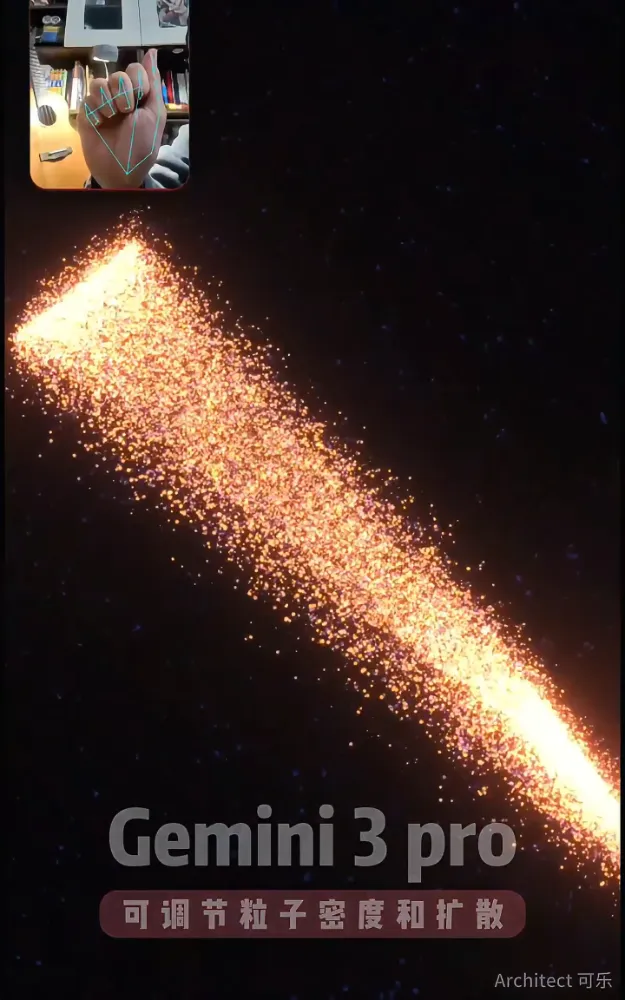
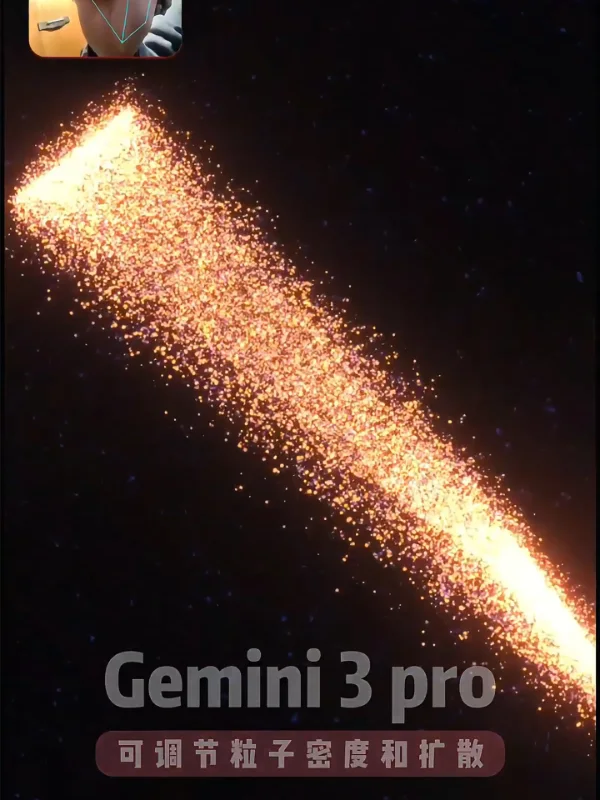
0321

diff --git a/index.html b/index.html
@@ -3,18 +3,17 @@
 <head>
     <meta charset="UTF-8">
     <meta name="viewport" content="width=device-width, initial-scale=1.0">
-    <title>Kele.Arch | AIGC + 设计</title>
+    <title>Arch-kele | AIGC + 设计</title>
+    
+    <!-- 字体预加载 -->
+    <link rel="preconnect" href="https://fonts.googleapis.com">
+    <link rel="preconnect" href="https://fonts.gstatic.com" crossorigin>
+    <link href="https://fonts.googleapis.com/css2?family=Inter:wght@400;500;700;900&display=swap" rel="stylesheet">
+    
     <!-- Tailwind CSS CDN -->
     <script src="https://cdn.tailwindcss.com"></script>
-    <!-- Lucide 图标库 -->
-    <script src="https://unpkg.com/lucide@latest"></script>
-    <!-- React, ReactDOM, Babel, Framer Motion CDN -->
-    <script src="https://unpkg.com/react@18/umd/react.production.min.js" crossorigin></script>
-    <script src="https://unpkg.com/react-dom@18/umd/react-dom.production.min.js" crossorigin></script>
-    <script src="https://unpkg.com/@babel/standalone/babel.min.js"></script>
-    <script src="https://unpkg.com/framer-motion@10.16.4/dist/framer-motion.js"></script>
+    
     <style>
-        @import url('https://fonts.googleapis.com/css2?family=Inter:wght@400;500;700;900&display=swap');
         body {
             font-family: 'Inter', sans-serif;
             overflow-x: hidden;
@@ -44,12 +43,20 @@
 <body class="bg-white text-[#1D1D1F] antialiased selection:bg-indigo-100">
     <div id="root"></div>
 
+    <!-- Lucide 图标库 -->
+    <script src="https://unpkg.com/lucide@latest"></script>
+    <!-- React, ReactDOM, Babel, Framer Motion CDN -->
+    <script src="https://unpkg.com/react@18/umd/react.production.min.js" crossorigin></script>
+    <script src="https://unpkg.com/react-dom@18/umd/react-dom.production.min.js" crossorigin></script>
+    <script src="https://unpkg.com/@babel/standalone/babel.min.js"></script>
+    <script src="https://unpkg.com/framer-motion@10.16.4/dist/framer-motion.js"></script>
+
     <script type="text/babel">
         const { useState, useEffect, useRef } = React;
         const { motion, AnimatePresence } = window.Motion;
 
-        // ================= 3D 卡片轮播组件 =================
-        const GallerySlider = ({ items, onImageClick, onVideoClick, showControls = false, ratio = '3/4' }) => {
+        // ================= 3D 卡片轮播组件 (已恢复最稳定纯净版本) =================
+        const GallerySlider = ({ items, onImageClick, onVideoClick, showControls = false }) => {
             const [currentIndex, setCurrentIndex] = useState(0);
             
             // 视频播放状态和静音控制
@@ -92,22 +99,12 @@
                 return 'hidden'; 
             };
 
-            const xOffset = ratio === '5/8' ? "70%" : "90%";
-            const hoverXOffset = ratio === '5/8' ? "80%" : "98%";
-
             const variants = {
                 center: { x: "0%", scale: 1, zIndex: 10, opacity: 1, filter: "brightness(100%)", boxShadow: "0 30px 60px -12px rgba(0,0,0,0.3)" },
-                left: { x: `-${xOffset}`, scale: 0.88, zIndex: 5, opacity: 0.5, filter: "brightness(60%)", boxShadow: "0 20px 40px -10px rgba(0,0,0,0.2)" },
-                right: { x: xOffset, scale: 0.88, zIndex: 5, opacity: 0.5, filter: "brightness(60%)", boxShadow: "0 20px 40px -10px rgba(0,0,0,0.2)" },
+                left: { x: "-90%", scale: 0.88, zIndex: 5, opacity: 0.5, filter: "brightness(60%)", boxShadow: "0 20px 40px -10px rgba(0,0,0,0.2)" },
+                right: { x: "90%", scale: 0.88, zIndex: 5, opacity: 0.5, filter: "brightness(60%)", boxShadow: "0 20px 40px -10px rgba(0,0,0,0.2)" },
                 hidden: { x: "0%", scale: 0.5, zIndex: 0, opacity: 0, transition: { duration: 0.2 }, boxShadow: "0 0px 0px rgba(0,0,0,0)" }
             };
-
-            let sizeClass = 'w-[84%] sm:w-[70%] md:w-[50%] lg:w-[38%] aspect-[3/4]';
-            if (ratio === '5/8') {
-                sizeClass = 'w-[70%] sm:w-[58%] md:w-[41%] lg:w-[31%] aspect-[5/8]';
-            } else if (ratio === '16/9') {
-                sizeClass = 'w-[95%] sm:w-[85%] md:w-[70%] lg:w-[60%] aspect-video';
-            }
 
             return (
                 <div className="relative w-full h-[65vh] md:h-[85vh] flex flex-col items-center justify-center py-4 mt-2">
@@ -140,8 +137,7 @@
                                             : isSide 
                                                 ? { 
                                                     scale: 0.92, 
-                                                    // 应用刚才算好的动态偏移量 hoverXOffset
-                                                    x: variant === 'left' ? `-${hoverXOffset}` : hoverXOffset, 
+                                                    x: variant === 'left' ? "-98%" : "98%", 
                                                     opacity: 0.95, 
                                                     filter: "brightness(100%)", 
                                                     boxShadow: "0 25px 50px -12px rgba(0,0,0,0.3)" 
@@ -149,7 +145,7 @@
                                                 : {}
                                     }
                                     transition={{ type: "spring", stiffness: 250, damping: 25, mass: 0.8 }}
-                                    className={`absolute ${sizeClass} rounded-2xl md:rounded-3xl overflow-hidden cursor-pointer ${isCenter ? 'ring-[6px] md:ring-[8px] ring-white/90 shadow-2xl' : ''}`}
+                                    className={`absolute w-[84%] sm:w-[70%] md:w-[50%] lg:w-[38%] aspect-[3/4] rounded-2xl md:rounded-3xl overflow-hidden cursor-pointer ${isCenter ? 'ring-[6px] md:ring-[8px] ring-white/90 shadow-2xl' : ''}`}
                                     onClick={() => {
                                         if (isCenter) {
                                             // 如果显示控件且是视频，点击切换播放状态；如果是图片或无控件，点击放大
@@ -821,8 +817,8 @@
                     customContent: true,
                     sections: [
                         {
-                            title: "智慧园区、楼盘、酒店系统产品", // 新案例名称 (无"设计"两字)
-                            type: "square-gallery", // 调用完美的 1:1 正方形画廊
+                            title: "智慧园区、楼盘、酒店系统产品", 
+                            type: "square-gallery", 
                             images: [
                                 { thumb: "images/交互与产品设计/可乐交互案例 (1).webp", full: "images/交互与产品设计/可乐交互案例 (1).webp" },
                                 { thumb: "images/交互与产品设计/可乐交互案例 (2).webp", full: "images/交互与产品设计/可乐交互案例 (2).webp" },
@@ -831,8 +827,7 @@
                         },
                         {
                             title: "Gemini+粒子交互+小游戏",
-                            ratio: "5/8",
-                            // 不填 type，默认使用和【Nanobanana+建筑模型设计】相同的 3D 轮播组件
+                            // 【改回原样】去除了 ratio 参数，默认使用极其稳定的 3:4 比例
                             images: [
                                 { thumb: "images/交互与产品设计/粒子交互01.webp", full: "images/交互与产品设计/粒子交互01.webp", video: "images/交互与产品设计/粒子交互01.webm" },
                                 { thumb: "images/交互与产品设计/粒子交互02.webp", full: "images/交互与产品设计/粒子交互02.webp", video: "images/交互与产品设计/粒子交互02.webm" },
@@ -1126,8 +1121,8 @@
                 { name: '小红书', icon: 'book-heart', link: 'https://xhslink.com/m/5e2y1Ncgd6k', type: 'link', subText: '建筑师可乐', color: '#ff2442' },
                 { name: '抖音', icon: 'music', link: 'https://www.douyin.com/user/MS4wLjABAAAAK1WJ7uJJxALyxxEN3MGWKyGu184xrjwQ4dGp1kMVZ3M', type: 'link', subText: '建筑师可乐', color: '#1D1D1F' },
                 { name: 'B站', icon: 'tv', link: 'https://b23.tv/Gsv3F7l', type: 'link', subText: '建筑师可乐', color: '#fb7299' },
-                { name: '公众号', icon: 'message-circle', type: 'modal', qrCode: 'images/建行建远微信公众号.jpg', subText: '渐行建远AIGC', color: '#07c160' },
-                { name: '淘店', icon: 'shopping-bag', type: 'modal', qrCode: 'images/淘宝店二维码.png', subText: '原创教程：建行建远', color: '#ff5000' },
+                { name: '公众号', icon: 'message-circle', type: 'modal', qrCode: 'images/二维码/建行建远微信公众号.webp', subText: '渐行建远AIGC', color: '#07c160' },
+                { name: '淘店', icon: 'shopping-bag', type: 'modal', qrCode: 'images/二维码/淘宝店二维码.png', subText: '原创教程：建行建远', color: '#ff5000' },
                 { name: '电子邮箱', icon: 'mail', value: 'v-luo@foxmail.com', type: 'copy', subText: 'v-luo@foxmail.com', color: '#00a1d6' }
             ];
 
@@ -1143,8 +1138,8 @@
                                 className="text-2xl font-bold tracking-tight shrink-0 cursor-pointer"
                                 onClick={(e) => handleNavClick(e, 0)}
                             >
-                                <span className="text-[#5D5FEF]">Kele</span>
-                                <span className="text-neutral-900">.Arch</span>
+                                <span className="text-[#5D5FEF]">Arch</span>
+                                <span className="text-neutral-900">-kele</span>
                             </motion.div>
                             
                             <div className="hidden md:flex items-center space-x-12 text-[14px] font-semibold text-neutral-500">
@@ -1316,7 +1311,6 @@
                                                     {item.title}
                                                 </h4>
                                                 {item.tag && (
-                                                    // 将原先的灰色文字(text-neutral-500)替换为蓝色(text-[#5D5FEF])，并搭配浅蓝色背景
                                                     <div className="inline-flex items-center px-2.5 py-0.5 bg-[#EEF2FF] border border-indigo-100 text-[#5D5FEF] text-[10px] md:text-[11px] font-bold rounded-md tracking-wider transition-colors duration-500 w-fit">
                                                         {item.tag}
                                                     </div>
@@ -1599,7 +1593,6 @@
                                                                 onImageClick={setLightboxImg} 
                                                                 onVideoClick={setLightboxVideo} 
                                                                 showControls={section.title === "Seedance+动画案例"}
-                                                                ratio={section.ratio}
                                                             />
                                                         )}
                                                     </div>
@@ -1755,8 +1748,8 @@
 
                     <footer className="py-24 border-t border-neutral-100 px-8 bg-white">
                         <div className="max-w-[1400px] mx-auto flex flex-col md:flex-row justify-between items-center gap-8 w-full text-center md:text-left">
-                            <div className="text-2xl font-bold shrink-0"><span className="text-[#5D5FEF]">Kele</span>.Arch</div>
-                            <p className="text-neutral-400 text-sm font-medium italic md:text-right">“跨界融合，让实体工程与数字体验在逻辑与美学的交点处相遇。”</p>
+                            <div className="text-2xl font-bold shrink-0"><span className="text-[#5D5FEF]">Arch</span>-kele</div>
+                            <p className="text-neutral-400 text-sm font-medium italic md:text-right w-full md:w-auto">“跨界融合，让实体工程与数字体验在逻辑与美学的交点处相遇。”</p>
                         </div>
                     </footer>
                 </div>
